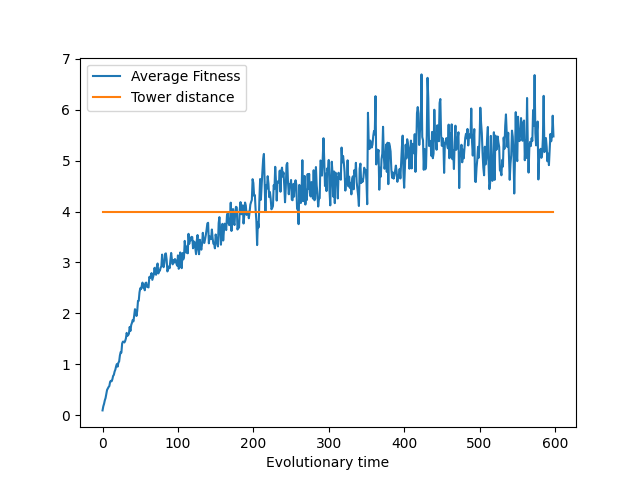
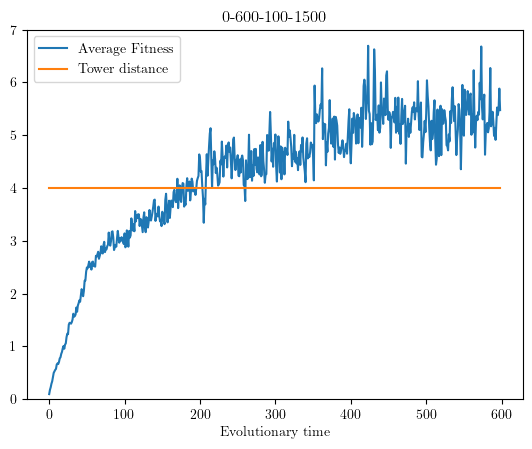
started adding images of the fitness graph

diff --git a/Final Project/avgFitGraph.py b/Final Project/avgFitGraph.py
@@ -1,8 +1,9 @@
 import matplotlib.pyplot as plt 
+from matplotlib import rc
 import pickle
 import constants as c
 
-experiment = '0-600-100-1500'
+experiment = '300-600-100-1500'
 
 f = open(experiment + '/' + experiment + 'fitness.p','rb')
 fitness = pickle.load(f)
@@ -15,11 +16,17 @@ g.close()
 
 print(fitness)
 
+rc('font',**{'family':'san-serif','sans-serif':['Helvetica']})
+rc('text',usetex=True)
+
 f = plt.figure() #adds a figure
 panel = f.add_subplot(111) #creates drawing panel inside the figure 
 panel.set_xlabel('Evolutionary time')
 #panel.set_ylabel('Average Fitness')
 plt.plot(fitness, label='Average Fitness') #plots data to the panel
 plt.plot(tower, label = 'Tower distance')
+#panel.set_ylim(0,7)
 plt.legend()
+plt.title(experiment)
 plt.show() #shows the figure
+f.savefig(experiment + '/' + experiment + '.png',bbox_inches='tight')

diff --git a/Final Project/constants.py b/Final Project/constants.py
@@ -6,8 +6,8 @@ TL = 0.5 #height of tower
 TW = 0.2 # width of tower
 Min_dist = 0.5 # min distance of the tower
 Max_dist = 4 #max distance of the tower
-gens = 1000 # how many gens of pretraining do we do
-totGens = 2000 # total gens of evolution
+gens = 0 # how many gens of pretraining do we do
+totGens = 200 # total gens of evolution
 #inc_time = 1 # gens per incremement
 gen_incremement = 0.015 # how much we incrememnt each inc_time gens
 eval_time = 1500

diff --git a/Final Project/geneticAlgorithm.py b/Final Project/geneticAlgorithm.py
@@ -14,7 +14,7 @@ from population import POPULATION
 from multiprocessing import Lock
 
 Load = False
-popSize = 50
+popSize = 500
 
 ## pretrain-total-popsize-eval_time
 saveFile = str(c.gens) + '-' + str(c.totGens) + '-' + str(popSize) + '-' + str(c.eval_time)

diff --git a/Final Project/playback.py b/Final Project/playback.py
@@ -2,7 +2,7 @@ from individual import INDIVIDUAL
 import pickle
 import constants as c
 
-experiment = '0-600-100-1500'
+experiment = '300-600-100-1500'
 
 f = open(experiment + '/' + experiment + 'best.p','rb')
 best = pickle.load(f)
